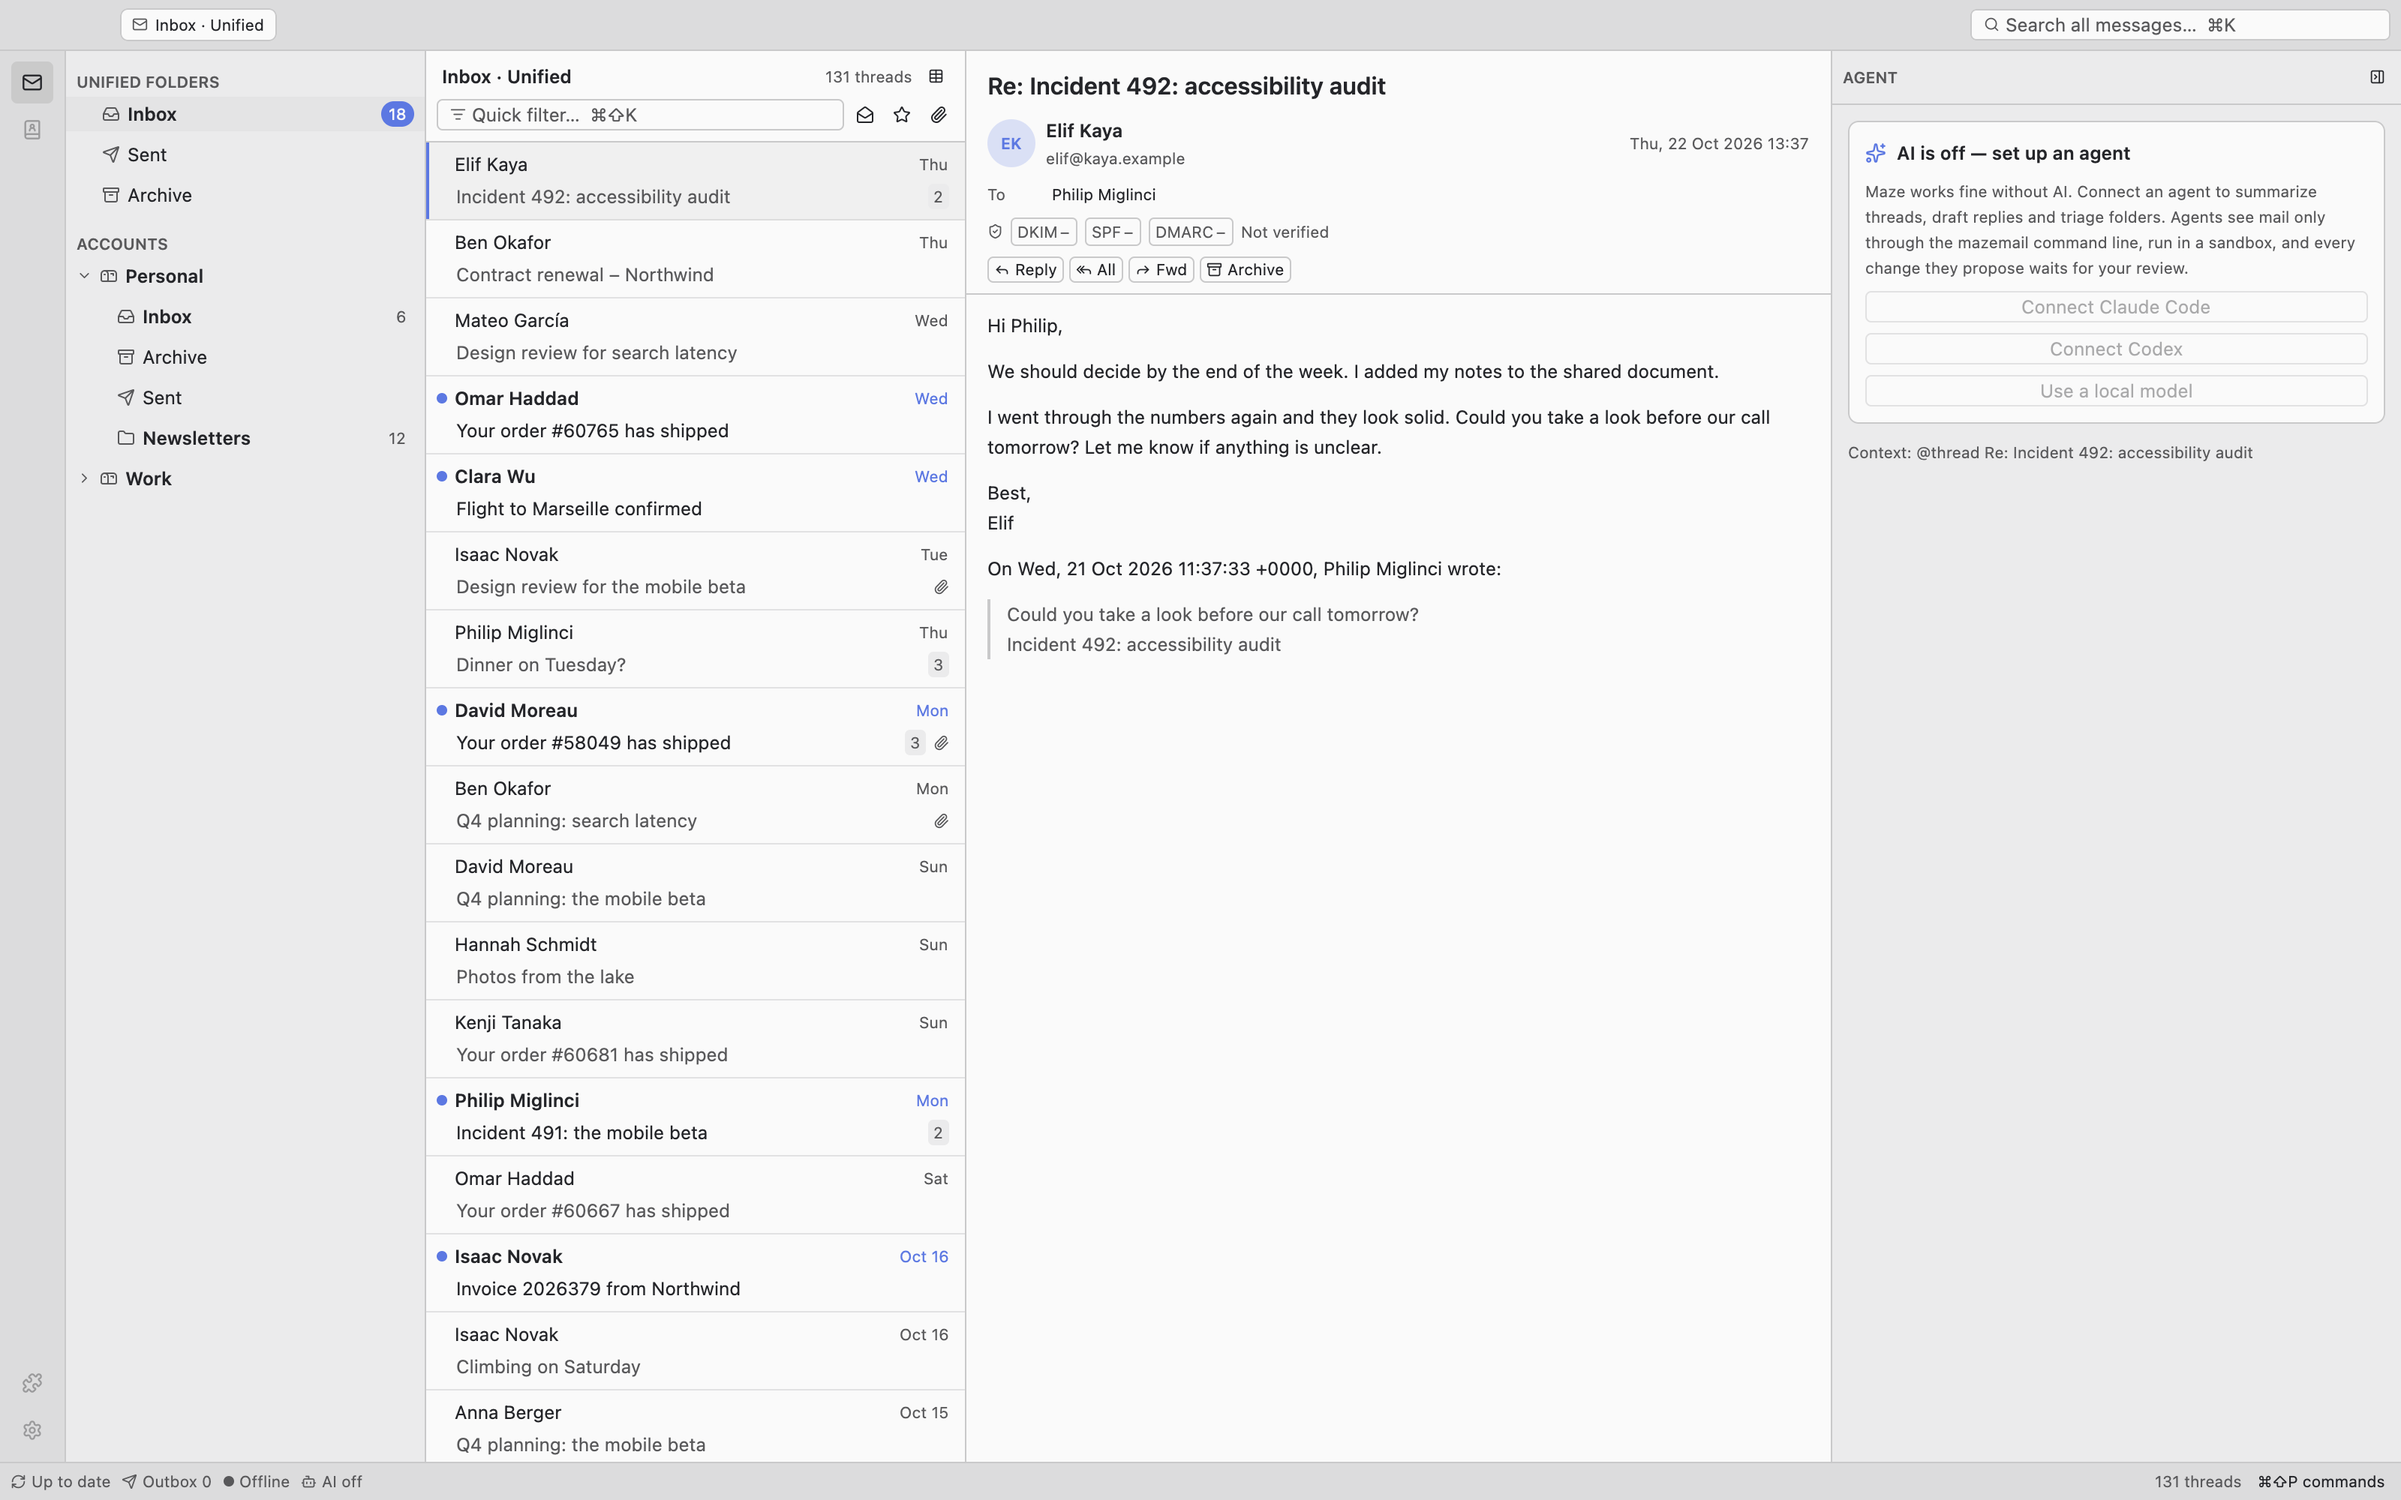
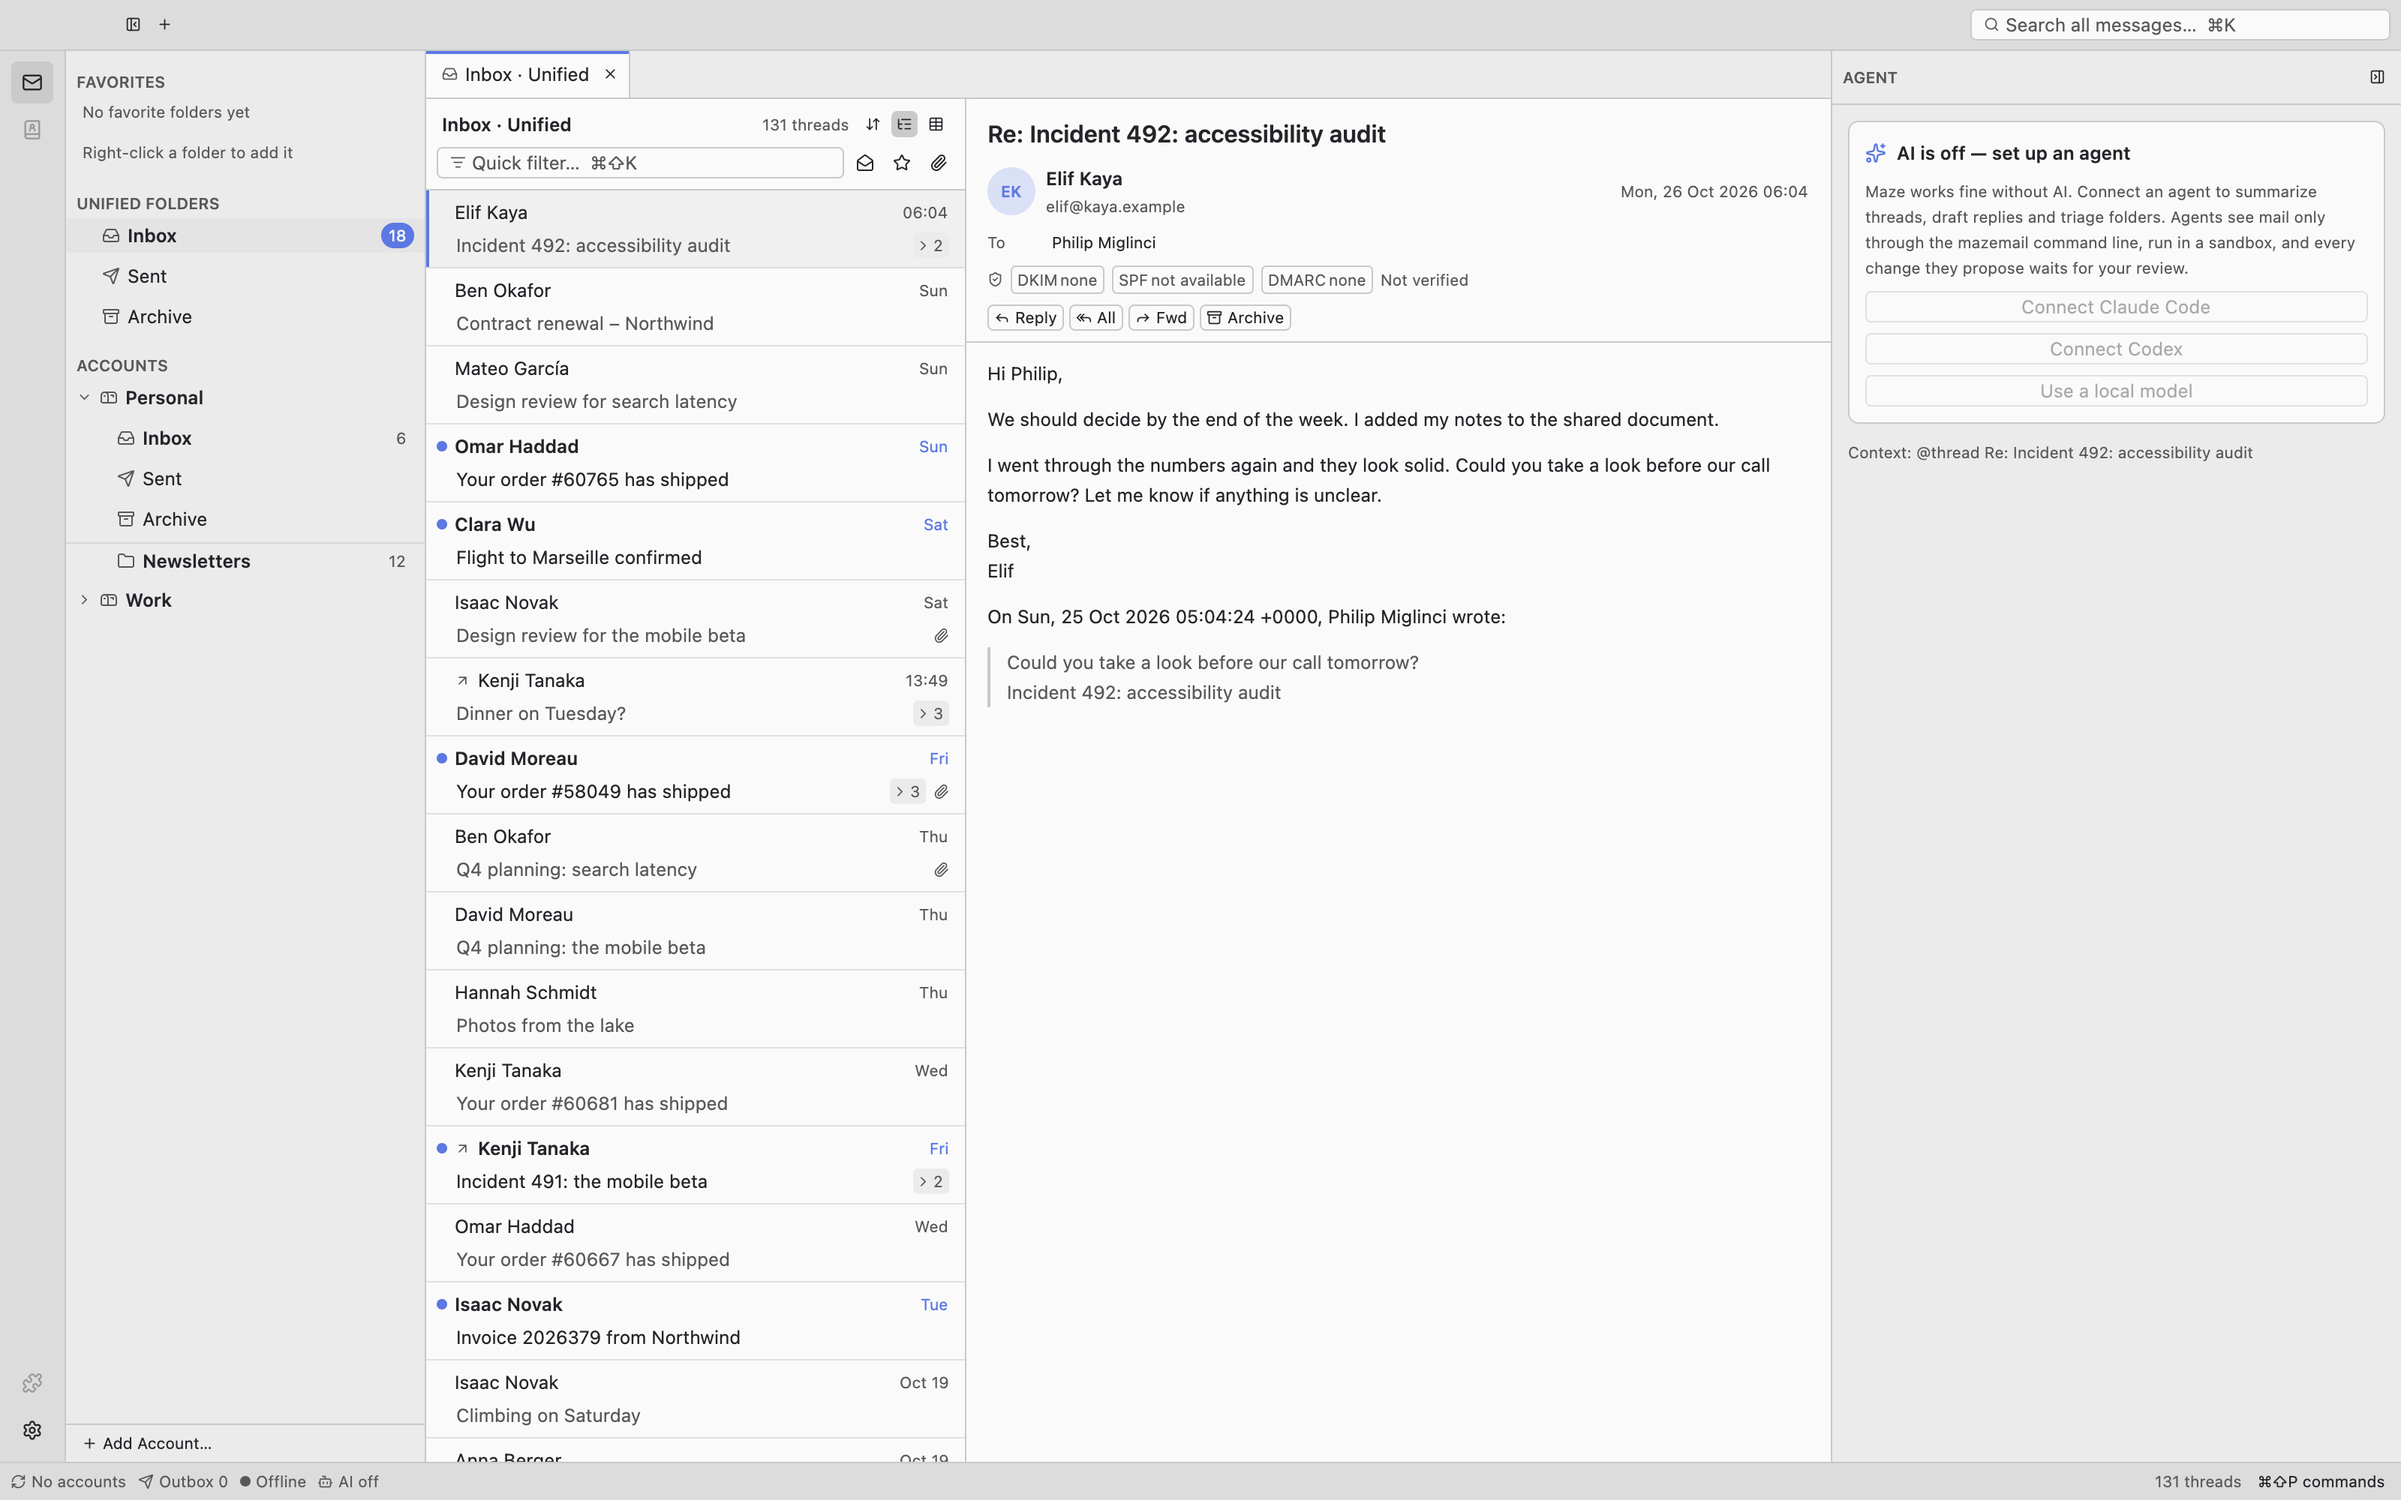
feat(website): show light or dark screenshots to match the theme

diff --git a/website/scripts/og.html b/website/scripts/og.html
@@ -151,6 +151,6 @@
       <p>A local-first email client in Rust. Encrypted at rest, familiar like Thunderbird, ready for agents.</p>
     </div>
     <div class="url">mazemail.dev</div>
-    <div class="shot"><img src="../../docs/screenshots/s1-main-window-dark-table.png" alt="" /></div>
+    <div class="shot"><img src="../../docs/screenshots/app-table-dark.png" alt="" /></div>
   </body>
 </html>

diff --git a/README.md b/README.md
@@ -4,7 +4,10 @@ An open source, local-first email client written in Rust. Built like
 [Zed](https://zed.dev) (GPU-rendered, fast, small, agent-native) and behaving like
 [Thunderbird](https://www.thunderbird.net) (same layout, same shortcuts).
 
-![Maze with a synthetic mailbox: folders, the message list, a message and the agent column](docs/screenshots/app-real-data.png)
+<picture>
+  <source media="(prefers-color-scheme: dark)" srcset="docs/screenshots/app-real-data-dark.png">
+  <img alt="Maze with a demo mailbox: folders, the message list, a message and the agent column" src="docs/screenshots/app-real-data.png">
+</picture>
 
 - **Local-first.** Your mail lives on your computer in one store. Opening a folder,
   scrolling through 100,000 messages or searching never waits for the server.
